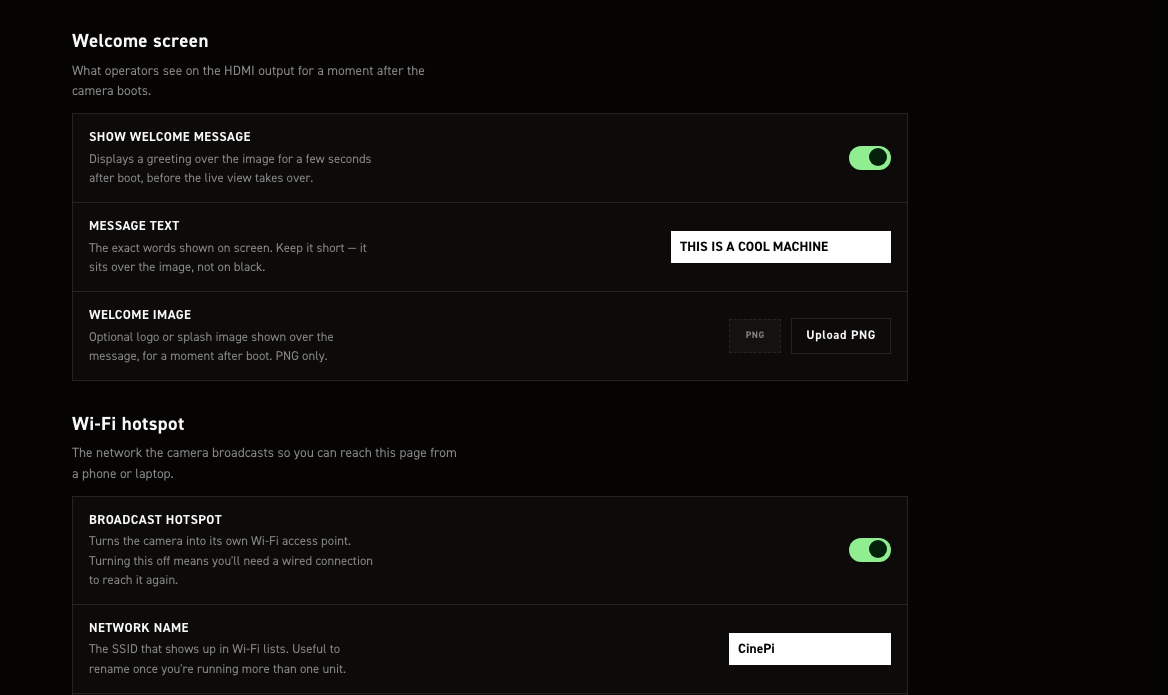
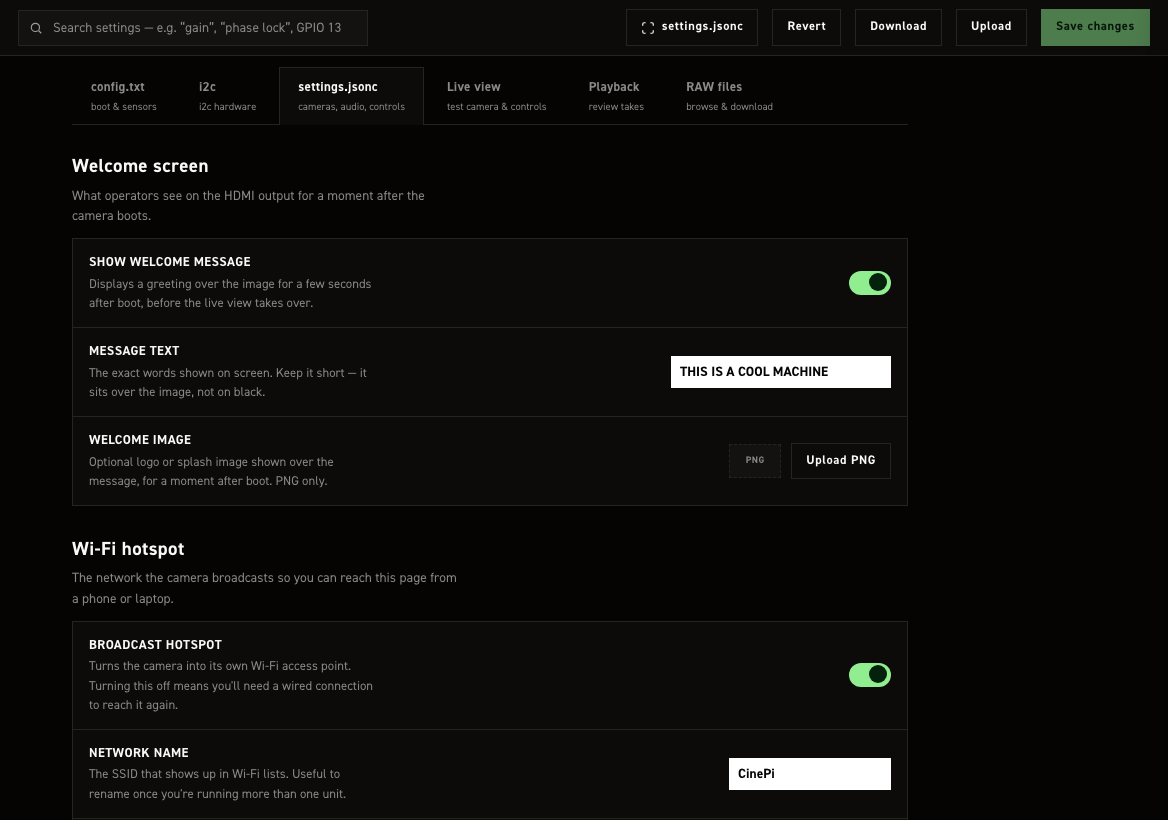
Show the pane screenshots whole, without a table around them
No more uniform tiles: the four other panes point straight at their full
screenshots, and settings.jsonc keeps only the left-rail crop asked for
earlier -- no height cropping. The derived tile files are gone.

The table is gone too. GitHub draws borders on every table it renders and
strips the attributes that would turn them off, so the grid is now paired
<img> tags at 49% width instead. Same two-up layout, no cell lines.

One consequence worth expecting: the screenshots are their natural heights
and those differ a lot -- config.txt is 1547px against i2c's 895 -- so the
rows sit ragged rather than flush. That is what showing them uncropped
means; say the word if you would rather have the even grid back.

diff --git a/README.md b/README.md
@@ -122,20 +122,17 @@ GPIO buttons and switches, rotary encoders and oled display for controlling came
 
 The same browser page carries the rest of the camera, at `cinepi.local:5000/settings-editor` — `config.txt`, the i2c bus, `settings.jsonc`, Playback and the RAW files:
 
-<table>
-<tr>
-<td width="50%"><img src="docs/images/pane-config-txt.png" alt="The config.txt pane of the Cinemate settings editor"></td>
-<td width="50%"><img src="docs/images/pane-i2c.png" alt="The i2c pane of the Cinemate settings editor"></td>
-</tr>
-<tr>
-<td width="50%"><img src="docs/images/pane-settings-jsonc.png" alt="The settings.jsonc pane of the Cinemate settings editor"></td>
-<td width="50%"><img src="docs/images/pane-playback.png" alt="The Playback pane of the Cinemate settings editor"></td>
-</tr>
-<tr>
-<td width="50%"><img src="docs/images/pane-raw-files.png" alt="The RAW files pane of the Cinemate settings editor"></td>
-<td width="50%"></td>
-</tr>
-</table>
+<p>
+<img src="docs/images/gui-config-txt.png" width="49%" alt="The config.txt pane of the Cinemate settings editor">
+<img src="docs/images/gui-i2c.png" width="49%" alt="The i2c pane of the Cinemate settings editor">
+</p>
+<p>
+<img src="docs/images/pane-settings-jsonc.png" width="49%" alt="The settings.jsonc pane of the Cinemate settings editor">
+<img src="docs/images/gui-playback.png" width="49%" alt="The Playback pane of the Cinemate settings editor">
+</p>
+<p>
+<img src="docs/images/gui-raw-files.png" width="49%" alt="The RAW files pane of the Cinemate settings editor">
+</p>
 
 ## Documentation
 Full manual installation instructions, configuration guides in the [documentation](https://tiramisioux.github.io/cinemate/).
